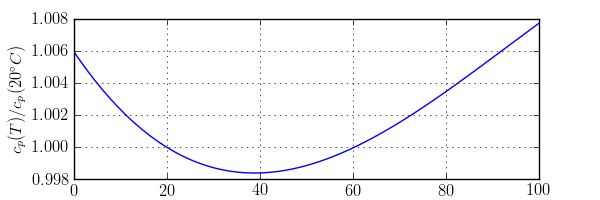
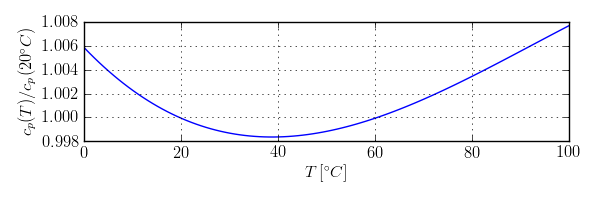
Updated plot command to avoid x-label to be cut off.
This is for #21.

diff --git a/Annex60/Resources/Images/Media/Water/plotDensity.py b/Annex60/Resources/Images/Media/Water/plotDensity.py
@@ -22,6 +22,9 @@ ax.set_xlabel('$T \, [\mathrm{^\circ C}]$')
 ax.set_ylabel('$\\rho \, [\mathrm{kg/m^3}]$')
 ax.grid(True)
 
+# The next line avoids the x-label to be cut off.
+plt.tight_layout(h_pad=1)
+
 # Save plot
 plt.savefig('plotRho.pdf')
 plt.savefig('plotRho.png')

diff --git a/Annex60/Resources/Images/Media/Water/plotCp.py b/Annex60/Resources/Images/Media/Water/plotCp.py
@@ -24,6 +24,9 @@ ax.set_xlabel('$T \, [^\circ C]$')
 ax.set_ylabel('$c_p(T)/c_p(20^\circ C)$')
 ax.grid(True)
 
+# The next line avoids the x-label to be cut off.
+plt.tight_layout(h_pad=1)
+
 # Save plot
 plt.savefig('plotCp.pdf')
 plt.savefig('plotCp.png')
